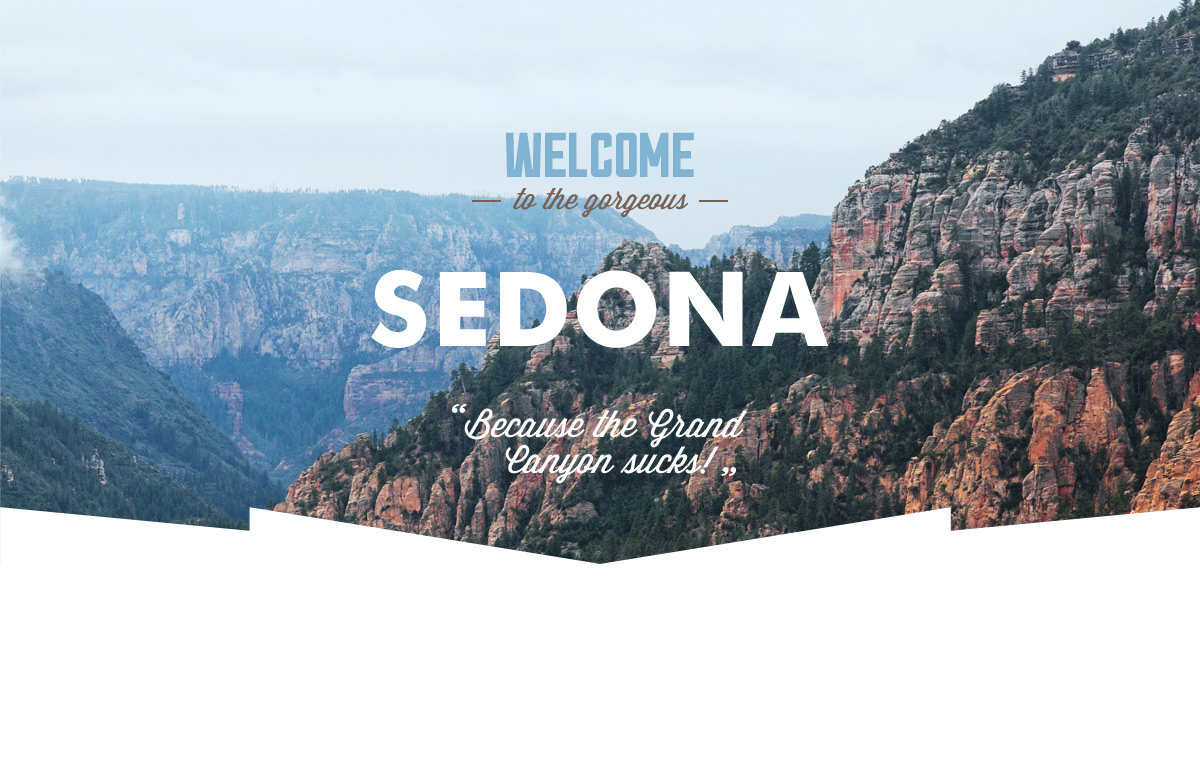
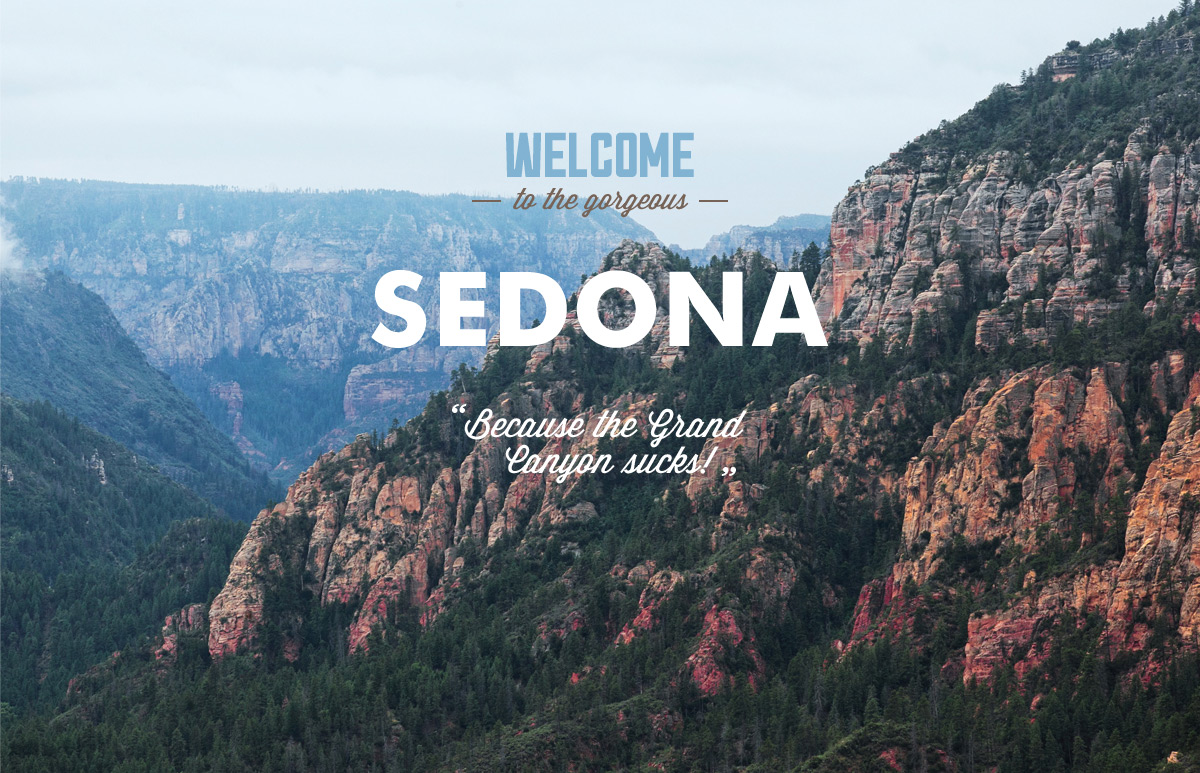
Исправлены ошибки согласно замечаниям по графике и текстовым стилям проекта

diff --git a/catalog.html b/catalog.html
@@ -28,32 +28,20 @@
             <fieldset class="filter-card">
               <legend class="input-title">Инфраструктура:</legend>
               <input class="input-checkbox" type="checkbox" name="filter-pool" id="pool" checked>
-              <label class="filter-label" for="pool">
-                <img class="checkbox-icon" src="img/checkbox-on.svg" alt="Флажок включен">Бассейн
-              </label>
+              <label class="filter-label" for="pool">Бассейн</label>
               <input class="input-checkbox" type="checkbox" name="filter-parking" id="parking">
-              <label class="filter-label" for="parking">
-                <img class="checkbox-icon" src="img/checkbox-off.svg" alt="Флажок выключен">Парковка
-              </label>
+              <label class="filter-label" for="parking">Парковка</label>
               <input class="input-checkbox" type="checkbox" name="filter-wi-fi" id="wi-fi">
-              <label class="filter-label" for="wi-fi">
-                <img class="checkbox-icon" src="img/checkbox-off.svg" alt="Флажок выключен">Wi-fi
-              </label>
+              <label class="filter-label" for="wi-fi">Wi-fi</label>
             </fieldset>
             <fieldset class="filter-card">
               <legend class="input-title">Тип жилья:</legend>
               <input class="input-checkbox" type="checkbox" name="filter-hotel" id="hotel" checked>
-              <label class="filter-label" for="hotel">
-                <img class="checkbox-icon" src="img/checkbox-on.svg" alt="Флажок включен">Гостиница
-              </label>
+              <label class="filter-label" for="hotel">Гостиница</label>
               <input class="input-checkbox" type="checkbox" name="filter-motel" id="motel" checked>
-              <label class="filter-label" for="motel">
-                <img class="checkbox-icon" src="img/checkbox-on.svg" alt="Флажок включен">Мотель
-              </label>
+              <label class="filter-label" for="motel">Мотель</label>
               <input class="input-checkbox" type="checkbox" name="filter-appartments" id="appartments" checked>
-              <label class="filter-label" for="appartments">
-                <img class="checkbox-icon" src="img/checkbox-on.svg" alt="Флажок включен">Аппартаменты
-              </label>
+              <label class="filter-label" for="appartments">Аппартаменты</label>
             </fieldset>
             <fieldset class="filter-card filter-price">
               <legend class="price-title">Стоимость в сутки (р):</legend>
@@ -63,9 +51,7 @@
                 <label class="filter-label" for="max-price">До</label>
                 <input class="input-number" type="number" name="maximum-price" id="max-price" value="3000">
               </div>
-              <div class="scale"> <!-- Здесь будет шкала выбора цен-->
-                <img class="filter-icon" src="img/filter-icon.svg" alt="Шкала выбора цен">Шкала
-              </div>
+              <div class="scale">Шкала</div>   <!-- Здесь будет шкала выбора цен-->
               <button class="filter-button" type="submit">Показать</button>
             </fieldset>
           </form>
@@ -78,19 +64,11 @@
             <li class="sort-item"><a class="find-link" href="#">По типу</a></li>
             <li class="sort-item"><a class="find-link" href="#">По рейтингу</a></li>
           </ul>
-          <div class="sort-arrow">
-            <a class="arrow-up" href="#">
-              <img src="img/icon-up-dir.svg" width="11" height="10" alt="Стрелка вверх">
-            </a>
-            <a class="arrow-down" href="#">
-              <img src="img/icon-down-dir.svg" width="11" height="10" alt="Стрелка вниз">
-            </a>
-          </div>
         </section>
         <section class="results">
           <section class="card">   <!-- карточка 1 отеля -->
             <div class="card-image">
-              <img src="img/Amara.jpg" width="135" height="90" alt="Фото Amara Resort&Spa">
+              <img src="img/amara.jpg" width="135" height="90" alt="Фото Amara Resort&Spa">
             </div>
             <section class="hotel">
               <h2 class="hotel-heading"><a href="#">Amara Resort&Spa</a></h2> <!-- Название 1 отеля как заголовок раздела -->
@@ -104,15 +82,12 @@
               </div>
             </section>
             <div class="raiting">
-              <div class="raiting-logo">
-                <img src="img/star.svg" width="18" height="17" alt="Четыре звезды">
-              </div>
               <p class="hotel-text">Рейтинг:8,5</p>
             </div>
           </section>
           <section class="card">   <!-- карточка 2 отеля -->
             <div class="card-image">
-              <img src="img/Desert.jpg" width="135" height="90" alt="Фото Desert Quail Inn">
+              <img src="img/desert.jpg" width="135" height="90" alt="Фото Desert Quail Inn">
             </div>
             <section class="hotel">
               <h2 class="hotel-heading"><a href="#">Desert Quail Inn</a></h2> <!-- Название 2 отеля как заголовок раздела -->
@@ -126,9 +101,6 @@
               </div>
             </section>
             <div class="raiting">
-              <div class="raiting-logo">
-                <img src="img/star.svg" width="18" height="17" alt="Две звезды">
-              </div>
               <p class="hotel-text">Рейтинг:8,9</p>
             </div>
           </section>
@@ -148,9 +120,6 @@
               </div>
             </section>
             <div class="raiting">
-              <div class="raiting-logo">
-                <img src="img/star.svg" width="18" height="17" alt="Три звезды">
-              </div>
               <p class="hotel-text">Рейтинг:9,2</p>
             </div>
           </section>

diff --git a/css/style.css b/css/style.css
@@ -1,28 +1,22 @@
 body {
-font-family: "PTSans";
-font-weight: normal;
-font-size: 14px;
-line-height: 21px;
-color: rgb(o,o,o);
-text-transform: uppercase;
-}
-
-.card-heading {
-  font-family: "PTSans";
-  font-weight: bold;
-  font-size: 21px;
+  font-family: "PT Sans";
+  font-weight: normal;
+  font-size: 14px;
   line-height: 21px;
-  color: rgb(o,o,o);
+  color: rgb(0, 0, 0);
   text-transform: uppercase;
 }
 
-.intro {line-height: 26px;}
+.card-heading {
+  font-weight: bold;
+  font-size: 21px;
+}
+
+.intro {
+  line-height: 26px;
+}
 
 .search-heading {
-font-family: "PTSans";
-font-weight: bold;
-font-size: 21px;
-line-height: 36px;
-color: rgb(o,o,o);
-text-transform: uppercase;
+  font-weight: bold;
+  line-height: 36px;
 }

diff --git a/index.html b/index.html
@@ -24,7 +24,7 @@
         <h1 class="visually-hidden">Городок Седона</h1> <!--скрытый заголовок 1 уровня -->
         <section class="welcome">
           <div class="welcome-image"> <!-- контейнер для фона с текстом приветствия -->
-            <img src="img/intro.jpg" width="1200" height="780" alt="Фон Седоны с текстом приветствия">
+            <img src="img/intro.jpg" width="1200" height="773" alt="Фон Седоны с текстом приветствия">
           </div>
         </section>
         <section class="row row-intro">
